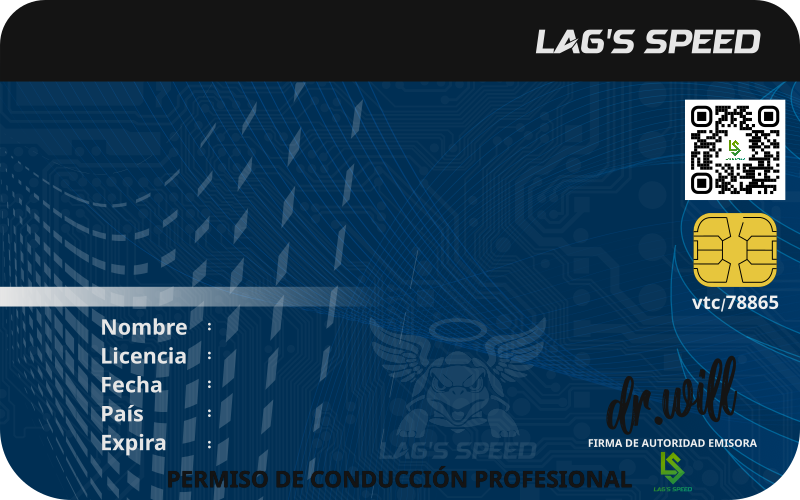
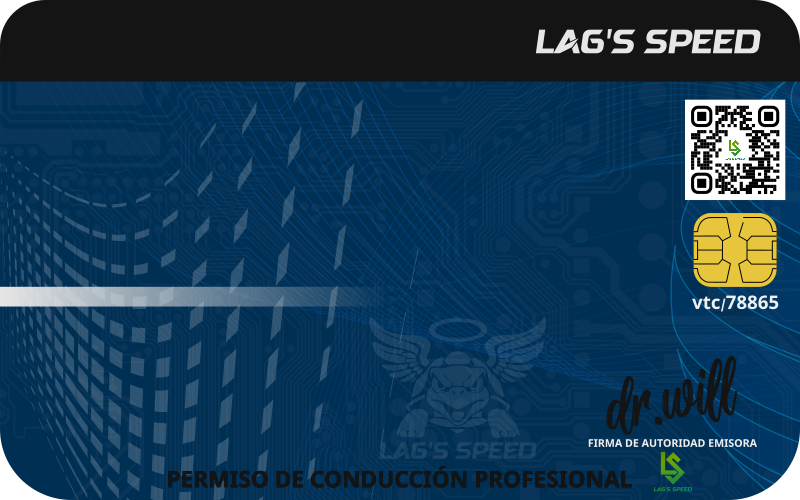
update

Changed region(s): [[0.125, 0.63, 0.25, 0.84], [0.125, 0.87, 0.2188, 0.9]]

diff --git a/pages/license.html b/pages/license.html
@@ -13,6 +13,8 @@
   <link href="https://fonts.googleapis.com/css2?family=Open+Sans:wght@700&display=swap" rel="stylesheet">
   <!-- QRious Library -->
   <script src="https://cdn.jsdelivr.net/npm/qrious@4.0.2/dist/qrious.min.js"></script>
+  <!-- Twemoji Library -->
+  <script src="https://twemoji.maxcdn.com/v/latest/twemoji.min.js" crossorigin="anonymous"></script>
   <style>
     .contenedor {
       display: flex;
@@ -148,13 +150,16 @@
       flagSize: 80,
       photoX: 20,
       photoY: 80,
-      textX: 220,  // Posición X del texto
-      textY: 334,  // Posición Y inicial del texto
-      qrX: 573,    // Posición X del QR
-      qrY: 101,    // Posición Y del QR
-      flagX: 625,  // Posición X de la bandera (exactamente igual al QR)
-      flagY: 236,  // Posición Y de la bandera (15px arriba de 251, debajo del QR)
-      font: "'Open Sans', sans-serif"
+      labelX: 100,  // Posición X inicial de las etiquetas
+      colonX: 130,  // Posición X de los dos puntos
+      textX: 270,   // Posición X de los datos (actualizado a 270)
+      textY: 334,   // Posición Y inicial del texto
+      qrX: 573,     // Posición X del QR
+      qrY: 101,     // Posición Y del QR
+      flagX: 625,   // Posición X de la bandera
+      flagY: 206,   // Posición Y de la bandera
+      font: "'Open Sans', sans-serif",
+      defaultPhotoSize: 192  // Tamaño de la silueta por defecto
     };
 
     // Inputs
@@ -253,35 +258,66 @@
       };
 
       function drawContent() {
-        // Dibujar imagen subida (opcional)
+        // Dibujar imagen subida (opcional) o silueta por defecto
         if (userImage) {
-          const photoSize = 192; // Fixed 192x192
+          const photoSize = config.defaultPhotoSize; // 192x192
           ctx.drawImage(userImage, config.photoX, config.photoY, photoSize, photoSize);
+        } else {
+          const silhouetteImg = new Image();
+          silhouetteImg.onload = () => {
+            ctx.drawImage(silhouetteImg, config.photoX, config.photoY, config.defaultPhotoSize, config.defaultPhotoSize);
+          };
+          silhouetteImg.onerror = () => {
+            console.error("Error loading default silhouette");
+          };
+          // Usar Twemoji para renderizar el emoji 👤 como SVG
+          silhouetteImg.src = twemoji.parse("👤", { folder: 'svg', ext: '.svg' }).match(/src="([^"]+)"/)[1];
         }
 
-        // Dibujar texto
+        // Dibujar texto con etiquetas alineadas
         const currentDate = getCurrentDate();
         const expirationDate = getExpirationDate(); // Sin "Expira:"
         ctx.font = `bold 24px ${config.font}`;
         ctx.fillStyle = config.color;
-        ctx.textAlign = "left";
-        const lineHeight = 24 * 1.2; // 28px
-        ctx.fillText(nombre, config.textX, config.textY);
-        ctx.fillText(currentDate, config.textX, config.textY + lineHeight * 2);
-        ctx.fillText(countryName, config.textX, config.textY + lineHeight * 3);
-        ctx.fillText(expirationDate, config.textX, config.textY + lineHeight * 4); // Sin "Expira:"
 
-        // Mostrar número de licencia solo si nombre, país y TruckersMP link están presentes
+        // Etiquetas a la izquierda con dos puntos alineados
+        const lineHeight = 24 * 1.2; // 28px
+        ctx.textAlign = "left";
+        ctx.fillText("Nombre", config.labelX, config.textY);
+        ctx.fillText("Licencia", config.labelX, config.textY + lineHeight);
+        ctx.fillText("Fecha", config.labelX, config.textY + lineHeight * 2);
+        ctx.fillText("Nacionalidad", config.labelX, config.textY + lineHeight * 3);
+        ctx.fillText("Fecha Exp.", config.labelX, config.textY + lineHeight * 4);
+        ctx.textAlign = "left"; // Asegurar alineación izquierda para los dos puntos
+        ctx.fillText(":", config.colonX, config.textY);
+        ctx.fillText(":", config.colonX, config.textY + lineHeight);
+        ctx.fillText(":", config.colonX, config.textY + lineHeight * 2);
+        ctx.fillText(":", config.colonX, config.textY + lineHeight * 3);
+        ctx.fillText(":", config.colonX, config.textY + lineHeight * 4);
+
+        // Datos a la derecha
+        ctx.textAlign = "left";
+        ctx.fillText(nombre, config.textX, config.textY);
         if (nombre && nombre.trim() !== "" && paisInput.value && truckersmpLink) {
           const date = new Date();
           const licenseNumber = generarLicenseNumber(nombre, paisInput.value, date);
           ctx.fillText(licenseNumber, config.textX, config.textY + lineHeight);
         }
+        ctx.fillText(currentDate, config.textX, config.textY + lineHeight * 2);
+        ctx.fillText(countryName, config.textX, config.textY + lineHeight * 3);
+        ctx.fillText(expirationDate, config.textX, config.textY + lineHeight * 4);
 
-        // Dibujar bandera (centrada exactamente en la misma X que el QR)
-        ctx.font = `${config.flagSize}px sans-serif`;
-        ctx.textAlign = "center";
-        ctx.fillText(flag, config.flagX, config.flagY + config.flagSize / 2);
+        // Dibujar bandera usando Twemoji
+        if (flag) {
+          const flagImg = new Image();
+          flagImg.onload = () => {
+            ctx.drawImage(flagImg, config.flagX - config.flagSize / 2, config.flagY, config.flagSize, config.flagSize);
+          };
+          flagImg.onerror = () => {
+            console.error("Error loading Twemoji flag");
+          };
+          flagImg.src = twemoji.parse(flag, { folder: 'svg', ext: '.svg' }).match(/src="([^"]+)"/)[1];
+        }
 
         // Dibujar QR code si existe
         if (truckersmpLink && qrCanvas) {
@@ -324,7 +360,7 @@
         reader.readAsDataURL(file);
       } else {
         userImage = null;
-        generarImagen(); // Refrescar sin foto si se quita
+        generarImagen(); // Refrescar con silueta por defecto si se quita la foto
       }
     });
 
